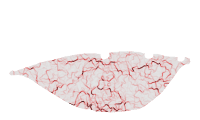
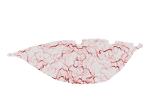
* Resize the eyeballs (they were too big) * Further tweaks and animation work on molock

diff --git a/Duologue/PlayObjects/Enemy_Moloch.cs b/Duologue/PlayObjects/Enemy_Moloch.cs
@@ -34,7 +34,7 @@ namespace Duologue.PlayObjects
         public float DeltaAlpha;
         public bool DeltaAlphaDirection;
         public int Color;
-        public double TimerColorChange;
+        //public double TimerColorChange;
     }
 
     public struct EyeBallFrame
@@ -73,6 +73,13 @@ namespace Duologue.PlayObjects
         Steady,
     }
 
+    public enum MolochEyeState
+    {
+        Open,
+        Closing,
+        Opening,
+    }
+
     public class Enemy_Moloch : Enemy
     {
         #region Constants
@@ -105,7 +112,7 @@ namespace Duologue.PlayObjects
         private const float delta_SpinnerRotation = MathHelper.PiOver4 * 0.01f;
 
         private const float minAlpha_Body = 0.1f;
-        private const float maxAlpha_Body = 1.0f;
+        private const float maxAlpha_Body = 0.91f;
         private const double minDeltaAlpha_Body = 0.0005;
         private const double maxDeltaAlpha_Body = 0.004;
 
@@ -114,8 +121,11 @@ namespace Duologue.PlayObjects
         private const float minScale_Spinner = 0.7889f;
 
         private const double totalTime_SpinnerColorChange = 1.02;
-        private const double totalTime_BodyColorChange = 2.51;
-        private const double totalTime_EyeBallBlinks = 2.4;
+        //private const double totalTime_BodyColorChange = 2.51;
+        private const double totalTime_EyeBallBlinkTick = 0.1;
+        private const double totalTime_EyeBallOpen = 1.5;
+
+        private const float radiusOfBody = 350f;
 
         /// <summary>
         /// The offset length of the tube base
@@ -129,7 +139,7 @@ namespace Duologue.PlayObjects
         /// <summary>
         /// The offset length of the pupil from center of eyeball
         /// </summary>
-        private const float offsetLength_Pupil = 35f;
+        private const float offsetLength_Pupil = 22f;
 
         /// <summary>
         /// This is both the minimum number of hit points it is possible for this boss to have
@@ -161,7 +171,7 @@ namespace Duologue.PlayObjects
         private int color_Spinner;
         private Vector2 offset_Eye;
         private Vector2 offset_Pupil;
-        private float rotation_Eye;
+        //private float rotation_Eye;
         private int color_Pupil;
         private ColorPolarity polarity_EyeBall;
 
@@ -173,8 +183,9 @@ namespace Duologue.PlayObjects
         // State stuff
         private MolochState currentState;
         private double timer_SpinnerColorChange;
-        private double timer_EyeBallBlinks;
+        private double timer_EyeBall;
         private int currentEyeFrame;
+        private MolochEyeState currentEyeState;
 
         // Audio stuff
         private AudioManager audio;
@@ -208,7 +219,9 @@ namespace Duologue.PlayObjects
             // Starting variables are all ignored
 
             // Set Position
-            Position = Vector2.Zero;// -0.5f * RealSize;
+            Position = //Vector2.Zero;// -0.5f * RealSize;
+                new Vector2(
+                    (float)InstanceManager.DefaultViewport.Width, 0);
             // Set next position
 
             // Set state
@@ -262,12 +275,12 @@ namespace Duologue.PlayObjects
                 body[i].DeltaAlpha = (float)MWMathHelper.GetRandomInRange(minDeltaAlpha_Body, maxDeltaAlpha_Body);
                 body[i].DeltaAlphaDirection = MWMathHelper.CoinToss();
                 body[i].Color = MWMathHelper.GetRandomInRange(0, colorArray_TasteTheRainbow.Length);
-                body[i].TimerColorChange = MWMathHelper.GetRandomInRange(0, totalTime_BodyColorChange);
+                //body[i].TimerColorChange = MWMathHelper.GetRandomInRange(0, totalTime_BodyColorChange);
             }
             center_Body = new Vector2(
                 body[0].Texture.Width / 2f, body[0].Texture.Height / 2f);
 
-            Radius = RealSize.X / 2f;
+            Radius = radiusOfBody;
 
             for (int i = 0; i < frames_Eye; i++)
             {
@@ -336,8 +349,9 @@ namespace Duologue.PlayObjects
             SetEyeOffsets();
             color_Pupil = MWMathHelper.GetRandomInRange(0, colorArray_TasteTheRainbow.Length);
             polarity_EyeBall = ColorPolarity.Positive;
-            timer_EyeBallBlinks = 0;
+            timer_EyeBall = 0;
             currentEyeFrame = 0;
+            currentEyeState = MolochEyeState.Open;
 
             Alive = true;
             Initialized = true;
@@ -408,7 +422,7 @@ namespace Duologue.PlayObjects
             offset_Eye = centerOfScreen - Position;
             offset_Eye.Normalize();
             offset_Eye = offset_Eye * offsetLength_EyeBall;
-            rotation_Eye = MWMathHelper.ComputeAngleAgainstX(offset_Eye);
+            //rotation_Eye = MWMathHelper.ComputeAngleAgainstX(offset_Eye) - MathHelper.PiOver4;
 
             // Aim the pupil
             if (nearestPlayer == null || vectorToNearestPlayer == Vector2.Zero)
@@ -558,7 +572,7 @@ namespace Duologue.PlayObjects
                 center_Eye,
                 null,
                 Color.White,
-                rotation_Eye,
+                0f,//rotation_Eye,
                 1f,
                 0f,
                 RenderSpriteBlendMode.AlphaBlendTop);
@@ -580,7 +594,7 @@ namespace Duologue.PlayObjects
                 center_Eye,
                 null,
                 GetMyColor(ColorState.Light, polarity_EyeBall),
-                rotation_Eye,
+                0f,//rotation_Eye,
                 1f,
                 0f,
                 RenderSpriteBlendMode.AlphaBlendTop);
@@ -590,7 +604,7 @@ namespace Duologue.PlayObjects
                 center_Eye,
                 null,
                 GetMyColor(ColorState.Medium, polarity_EyeBall),
-                rotation_Eye,
+                0f,//rotation_Eye,
                 1f,
                 0f,
                 RenderSpriteBlendMode.AlphaBlendTop);
@@ -600,7 +614,7 @@ namespace Duologue.PlayObjects
                 center_Eye,
                 null,
                 GetMyColor(ColorState.Dark, polarity_EyeBall),
-                rotation_Eye,
+                0f,//rotation_Eye,
                 1f,
                 0f,
                 RenderSpriteBlendMode.AlphaBlendTop);
@@ -611,7 +625,7 @@ namespace Duologue.PlayObjects
                 center_Eye,
                 null,
                 Color.White,
-                rotation_Eye,
+                0f,//rotation_Eye,
                 1f,
                 0f,
                 RenderSpriteBlendMode.AlphaBlendTop);            
@@ -631,12 +645,12 @@ namespace Duologue.PlayObjects
             // Body
             for (int i = 0; i < body.Length; i++)
             {
-                body[i].TimerColorChange += delta;
-                if (body[i].TimerColorChange > totalTime_BodyColorChange)
-                {
-                    body[i].TimerColorChange = 0;
-                    body[i].Color = MWMathHelper.GetRandomInRange(0, colorArray_TasteTheRainbow.Length);
-                }
+                //body[i].TimerColorChange += delta;
+                //if (body[i].TimerColorChange > totalTime_BodyColorChange)
+                //{
+                    //body[i].TimerColorChange = 0;
+                    //body[i].Color = MWMathHelper.GetRandomInRange(0, colorArray_TasteTheRainbow.Length);
+                //}
                 body[i].Rotation += body[i].DeltaRotation;
                 if (body[i].Rotation > MathHelper.TwoPi)
                     body[i].Rotation -= MathHelper.TwoPi;
@@ -656,9 +670,55 @@ namespace Duologue.PlayObjects
                 else if (body[i].Alpha < minAlpha_Body)
                 {
                     body[i].Alpha = minAlpha_Body;
+                    body[i].Color = MWMathHelper.GetRandomInRange(0, colorArray_TasteTheRainbow.Length);
                     body[i].DeltaAlphaDirection = !body[i].DeltaAlphaDirection;
                 }
             }
+            // Eyeball
+            timer_EyeBall += delta;
+            switch (currentEyeState)
+            {
+                case MolochEyeState.Opening:
+                    if (timer_EyeBall > totalTime_EyeBallBlinkTick)
+                    {
+                        timer_EyeBall = 0;
+                        currentEyeFrame--;
+                        if (currentEyeFrame < 0)
+                        {
+                            currentEyeFrame = 0;
+                            currentEyeState = MolochEyeState.Open;
+                        }
+                    }
+                    break;
+                case MolochEyeState.Closing:
+                    if (timer_EyeBall > totalTime_EyeBallBlinkTick)
+                    {
+                        timer_EyeBall = 0;
+                        currentEyeFrame++;
+                        if (currentEyeFrame >= eyes.Length)
+                        {
+                            currentEyeFrame = eyes.Length - 1;
+                            if (polarity_EyeBall == ColorPolarity.Negative)
+                                polarity_EyeBall = ColorPolarity.Positive;
+                            else
+                                polarity_EyeBall = ColorPolarity.Negative;
+                            color_Pupil++;
+                            if (color_Pupil >= colorArray_TasteTheRainbow.Length)
+                                color_Pupil = 0;
+                            currentEyeState = MolochEyeState.Opening;
+                        }
+                    }
+                    break;
+                default:
+                    // Default is open
+                    if (timer_EyeBall > totalTime_EyeBallOpen)
+                    {
+                        timer_EyeBall = 0;
+                        currentEyeState = MolochEyeState.Closing;
+                    }
+                    break;
+            }
+
             #endregion
         }
         #endregion
